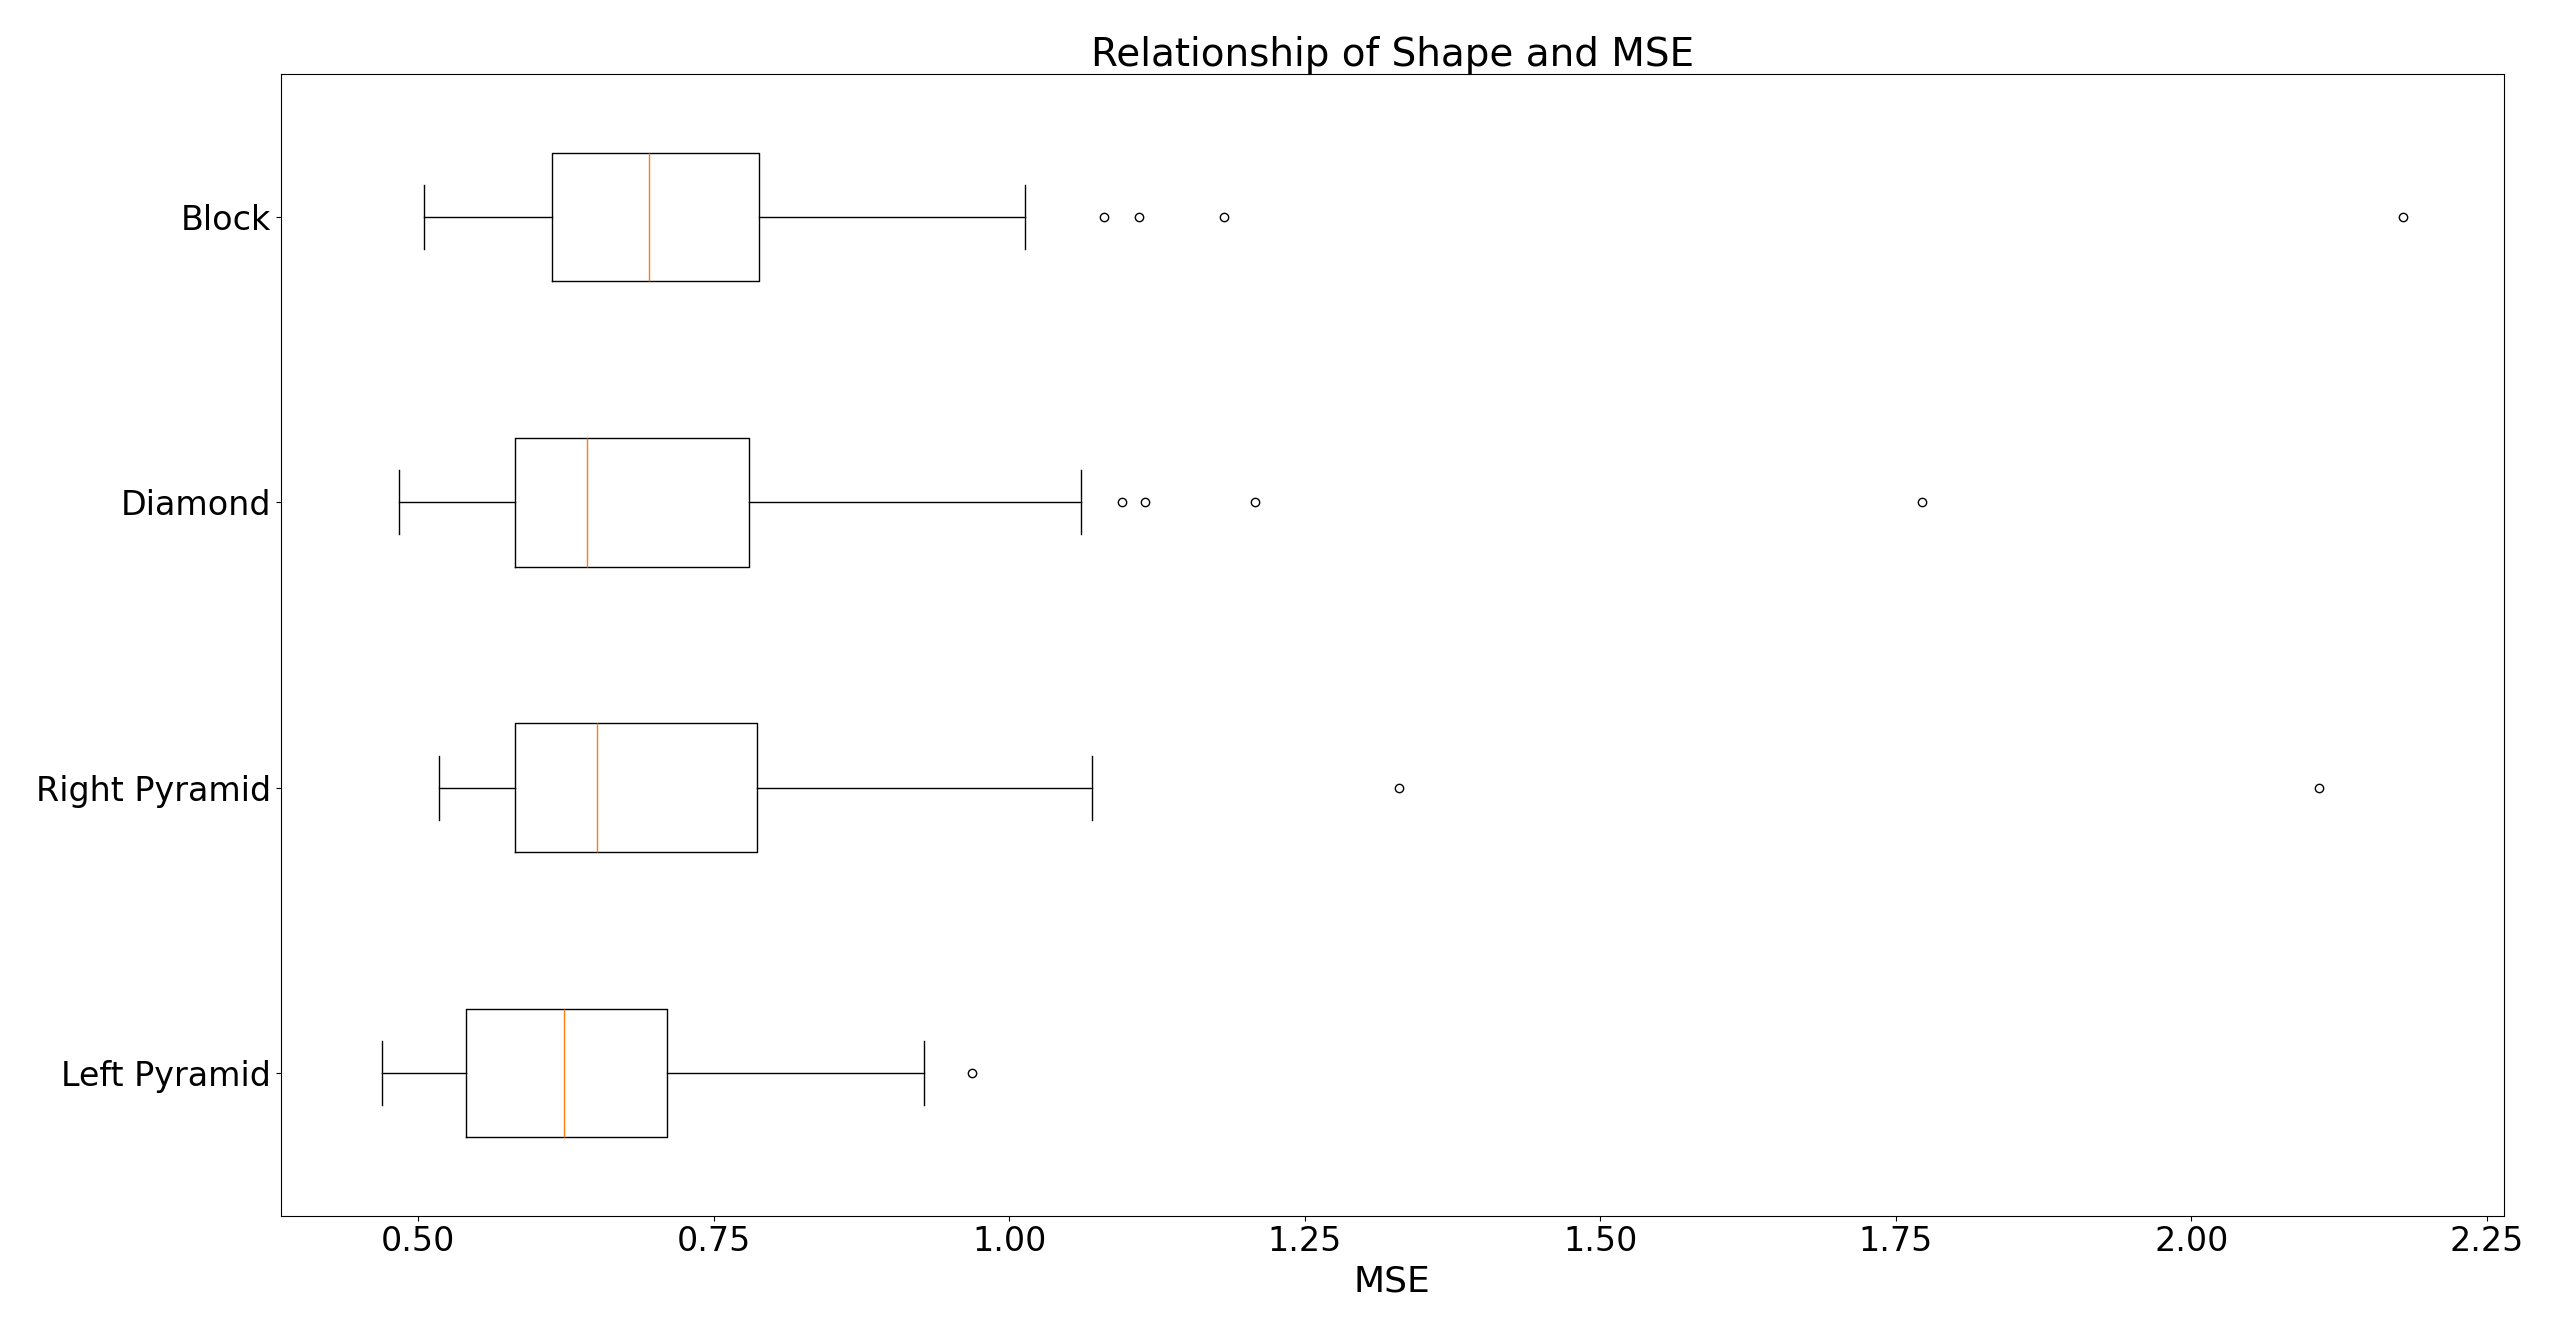
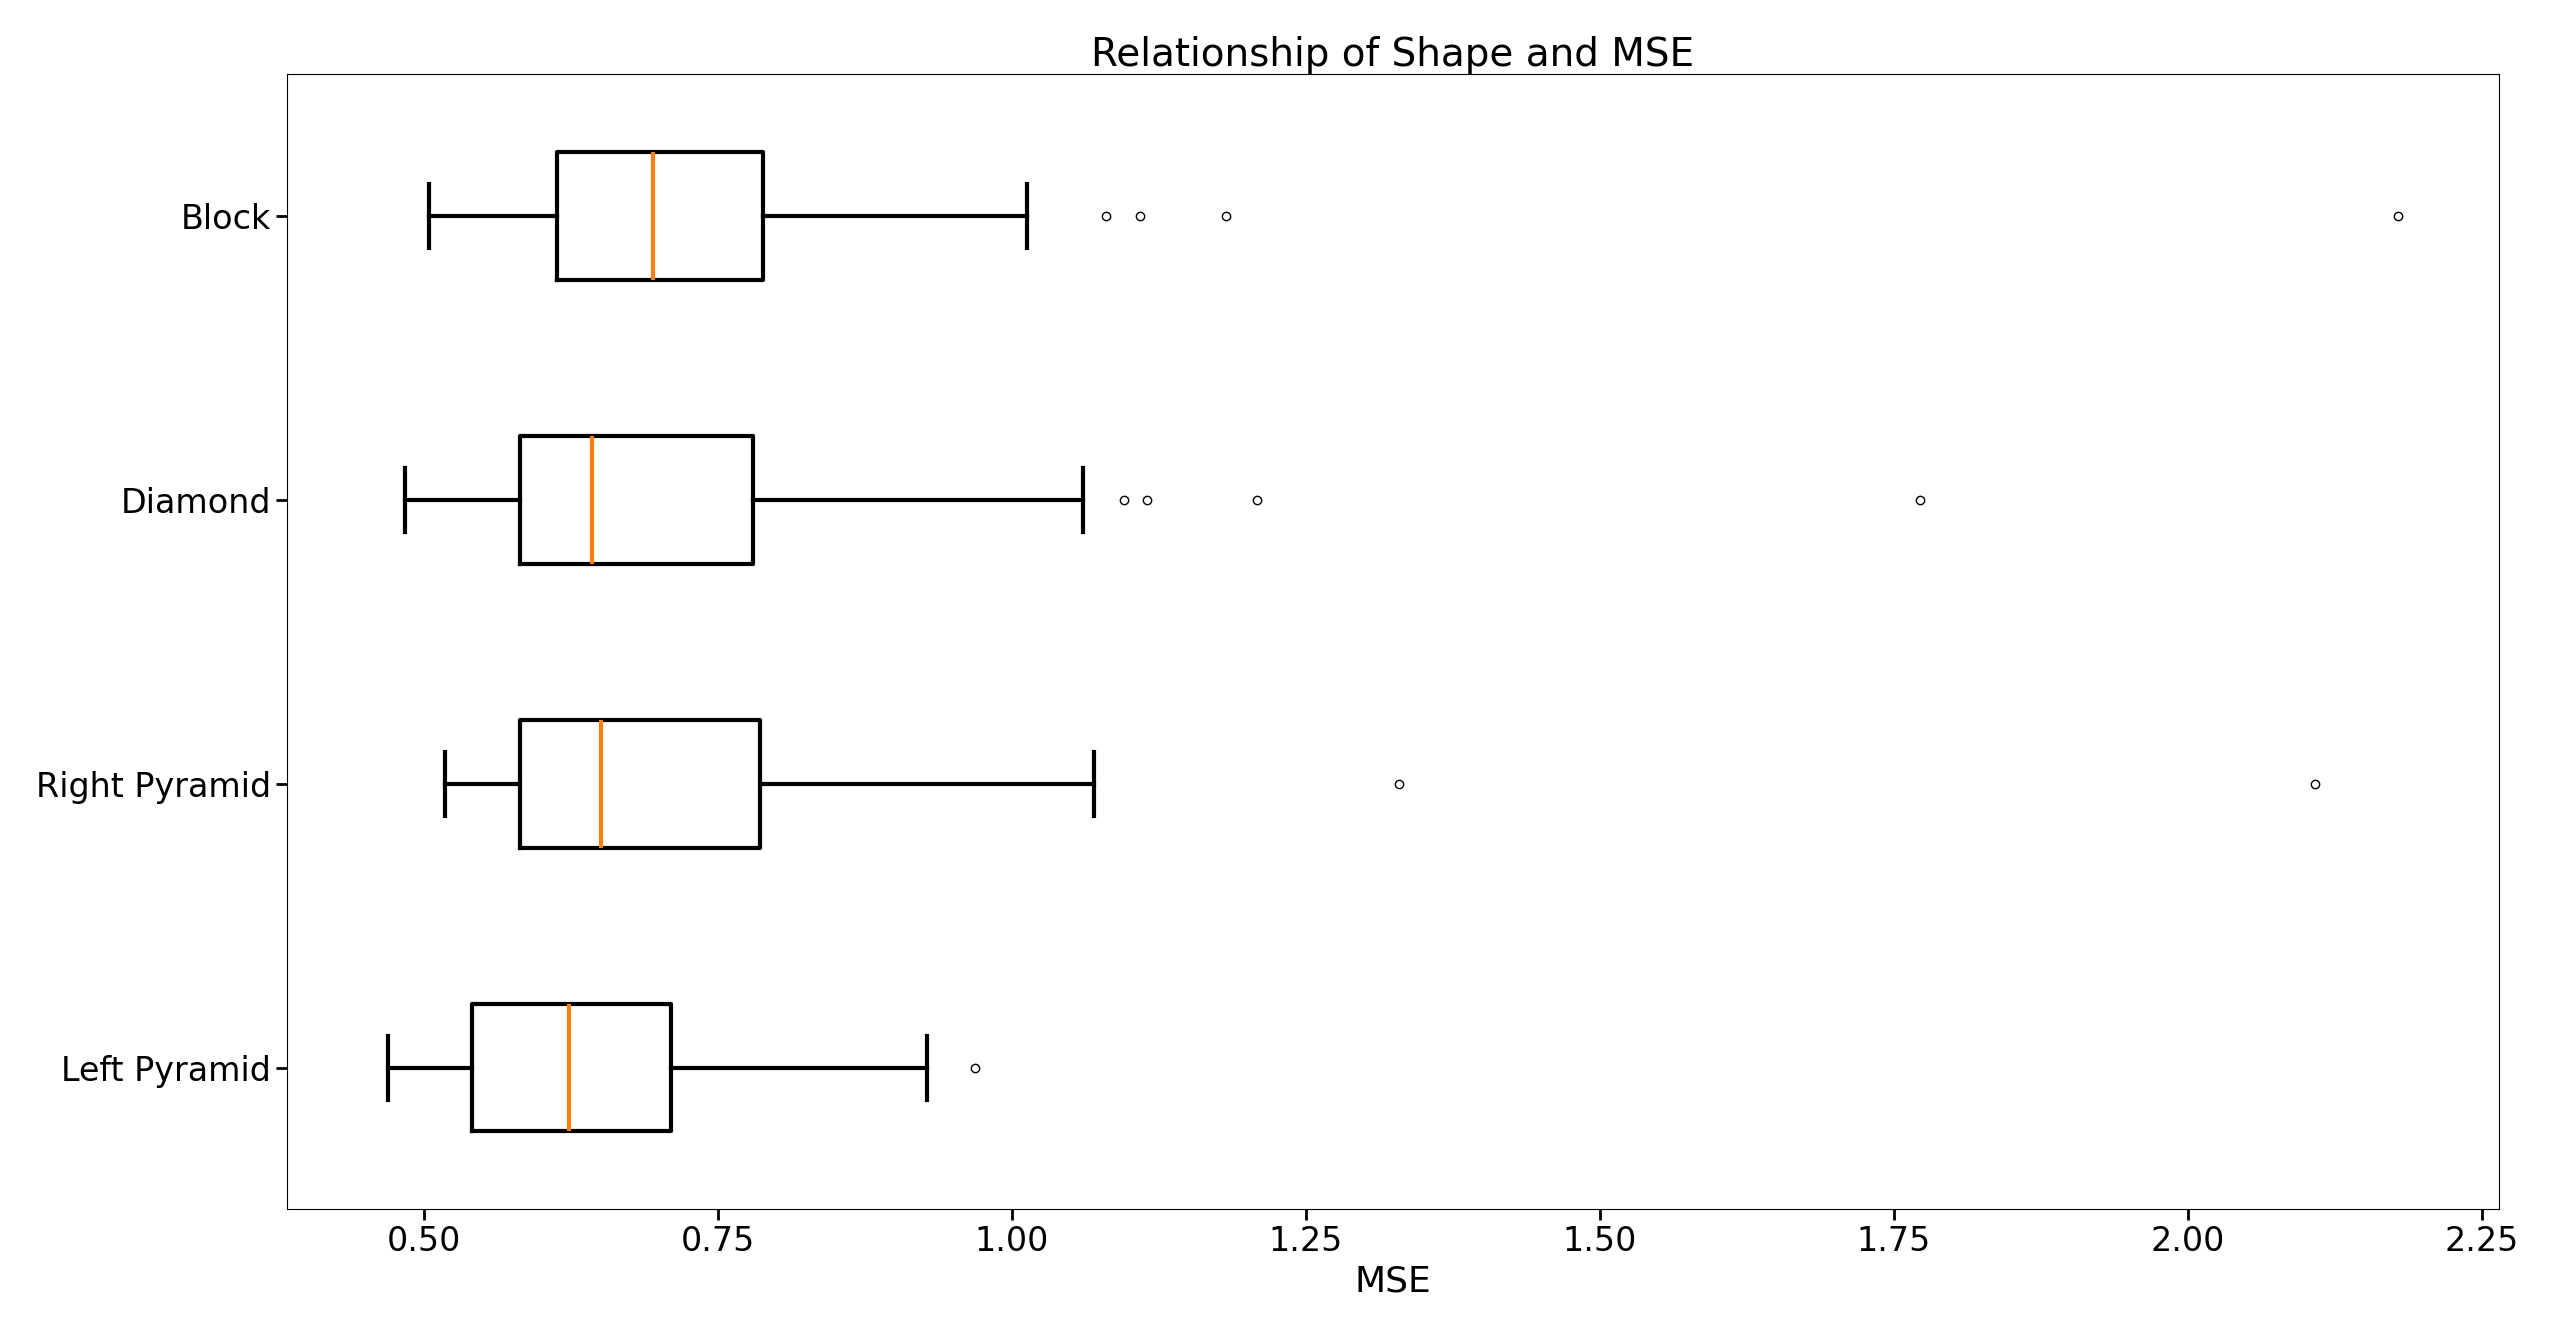
Made boxplot more readable

diff --git a/gradient_loss.py b/gradient_loss.py
@@ -2,6 +2,14 @@ import numpy as np
 import matplotlib.pyplot as plt
 from mpl_toolkits.mplot3d import Axes3D   # noqa: F401
 
+plt.rcParams.update({
+    "font.size": 24,          # base size for everything
+    "axes.titlesize": 28,     # title font
+    "axes.labelsize": 26,     # x‑/y‑label font
+    "xtick.labelsize": 24,    # tick labels
+    "ytick.labelsize": 24,
+})
+
 # ── Random loss surface ────────────────────────────────────────────────────────
 rng = np.random      # remove the argument to get a new surface each run
 K   = 4                               # how many sinusoidal components
@@ -68,9 +76,9 @@ surf = ax.plot_surface(
 ax.plot(
     px, py, pz,
     color='crimson', marker='o', markersize=4,
-    linewidth=2, label='Gradient descent path'
+    linewidth=3, label='Gradient descent path'
 )
-ax.legend(fontsize=14)
+ax.legend(fontsize=18)
 
 ax.set_xlabel('x')
 ax.set_ylabel('y')

diff --git a/boxplot_optimizer.py b/boxplot_optimizer.py
@@ -11,6 +11,7 @@ plt.rcParams.update({
     "ytick.labelsize": 24,
 })
 
+
 results = pd.read_csv("results.csv")
 Models = results["Model"]
 MSE = results["MSE"]
@@ -40,13 +41,18 @@ plt.figure(figsize=(8, 5))
 plt.boxplot(
     [adam, adamW],   # a list‑of‑lists
     vert=False,                          # horizontal boxes
-    labels=["Adam", "AdamW"]
+    labels=["Adam", "AdamW"],
+    boxprops=dict(linewidth=3),
+        whiskerprops=dict(linewidth=3),
+        capprops=dict(linewidth=3),
+        medianprops=dict(linewidth=3)
 )
 
 plt.title("Relationship of Optimizer and MSE")
 plt.xlabel("MSE")
 plt.tight_layout()
-# plt.show()
+plt.tick_params(axis='both', which='both', width=2, length=8)
+plt.show()
 
 amongus = pd.DataFrame(adam)
 print(amongus.describe())

diff --git a/boxplot_lr.py b/boxplot_lr.py
@@ -45,14 +45,19 @@ plt.figure(figsize=(8, 5))
 
 plt.boxplot(
     [lr_1, lr_2, lr_3, lr_4],   # a list‑of‑lists
-    vert=True,                          # horizontal boxes
-    labels=["0.001", "0.0005", "0.0001", "0.00005"]
+    vert=False,                          # horizontal boxes
+    labels=["0.001", "0.0005", "0.0001", "0.00005"],
+    boxprops=dict(linewidth=3),
+        whiskerprops=dict(linewidth=3),
+        capprops=dict(linewidth=3),
+        medianprops=dict(linewidth=3)
 )
 
 plt.title("Relationship of Learning Rate and MSE")
 plt.xlabel("MSE")
 plt.tight_layout()
-# plt.show()
+plt.tick_params(axis='both', which='both', width=2, length=8)
+plt.show()
 
 amongus = pd.DataFrame(lr_1)
 print(amongus.describe())

diff --git a/boxplot_epochs.py b/boxplot_epochs.py
@@ -43,13 +43,18 @@ plt.figure(figsize=(8, 5))
 plt.boxplot(
     [epoch_100, epoch_250, epoch_500],   # a list‑of‑lists
     vert=False,                          # horizontal boxes
-    labels=["100 Epochs", "250 Epochs", "500 Epochs"]
+    labels=["100 Epochs", "250 Epochs", "500 Epochs"],
+    boxprops=dict(linewidth=3),
+        whiskerprops=dict(linewidth=3),
+        capprops=dict(linewidth=3),
+        medianprops=dict(linewidth=3)
 )
 
 plt.title("Relationship of Epochs and MSE")
 plt.xlabel("MSE")
 plt.tight_layout()
-# plt.show()
+plt.tick_params(axis='both', which='both', width=2, length=8)
+plt.show()
 
 amongus = pd.DataFrame(epoch_100)
 print(amongus.describe())

diff --git a/boxplot_shape.py b/boxplot_shape.py
@@ -46,13 +46,18 @@ plt.figure(figsize=(8, 5))
 plt.boxplot(
     [left, right, diamond, block],   # a list‑of‑lists
     vert=False,                          # horizontal boxes
-    labels=["Left Pyramid", "Right Pyramid", "Diamond", "Block"]
+    labels=["Left Pyramid", "Right Pyramid", "Diamond", "Block"],
+    boxprops=dict(linewidth=3),
+        whiskerprops=dict(linewidth=3),
+        capprops=dict(linewidth=3),
+        medianprops=dict(linewidth=3)
 )
 
 plt.title("Relationship of Shape and MSE")
 plt.xlabel("MSE")
 plt.tight_layout()
-# plt.show()
+plt.tick_params(axis='both', which='both', width=2, length=8)
+plt.show()
 
 def IQR(x):
     Q1 = x.quantile(0.25)

diff --git a/analysis.py b/analysis.py
@@ -19,14 +19,14 @@ for i in range(len(MSE)):
     mse_dict[Models[i]] = MSE[i]
 
 sorted_mse_dict = dict(sorted(mse_dict.items(), key=lambda item: item[1]))
+print(sorted_mse_dict)
+# first_ten = dict(list(sorted_mse_dict.items())[10:])
+# # for key in first_ten:
+# #     print(key)
 
-first_ten = dict(list(sorted_mse_dict.items())[10:])
-# for key in first_ten:
-#     print(key)
 
-
-plt.boxplot(MSE, vert=False)
-plt.title("MSE boxplot")
-plt.xlabel("MSE")
-plt.yticks([1], [""])  # Remove the '1' label
-plt.show()
+# plt.boxplot(MSE, vert=False)
+# plt.title("MSE boxplot")
+# plt.xlabel("MSE")
+# plt.yticks([1], [""])  # Remove the '1' label
+# plt.show()

diff --git a/boxplot_size.py b/boxplot_size.py
@@ -43,13 +43,18 @@ plt.figure(figsize=(8, 5))
 plt.boxplot(
     [small, medium, large],   # a list‑of‑lists
     vert=False,                          # horizontal boxes
-    labels=["Small", "Medium", "Large"]
+    labels=["Small", "Medium", "Large"],
+    boxprops=dict(linewidth=3),
+        whiskerprops=dict(linewidth=3),
+        capprops=dict(linewidth=3),
+        medianprops=dict(linewidth=3)
 )
 
 plt.title("Relationship of Size and MSE")
 plt.xlabel("MSE")
 plt.tight_layout()
-# plt.show()
+plt.tick_params(axis='both', which='both', width=2, length=8)
+plt.show()
 
 amongus = pd.DataFrame(small)
 print(amongus.describe())

diff --git a/nn.py b/nn.py
@@ -2,6 +2,14 @@ import matplotlib.pyplot as plt
 from matplotlib.patches import Circle
 import numpy as np
 
+plt.rcParams.update({
+    "font.size": 24,          # base size for everything
+    "axes.titlesize": 28,     # title font
+    "axes.labelsize": 26,     # x‑/y‑label font
+    "xtick.labelsize": 24,    # tick labels
+    "ytick.labelsize": 24,
+})
+
 # ------------------------------------------------------------------
 # Helper: draw a fully‑connected feed‑forward network on a given Axes
 # ------------------------------------------------------------------
